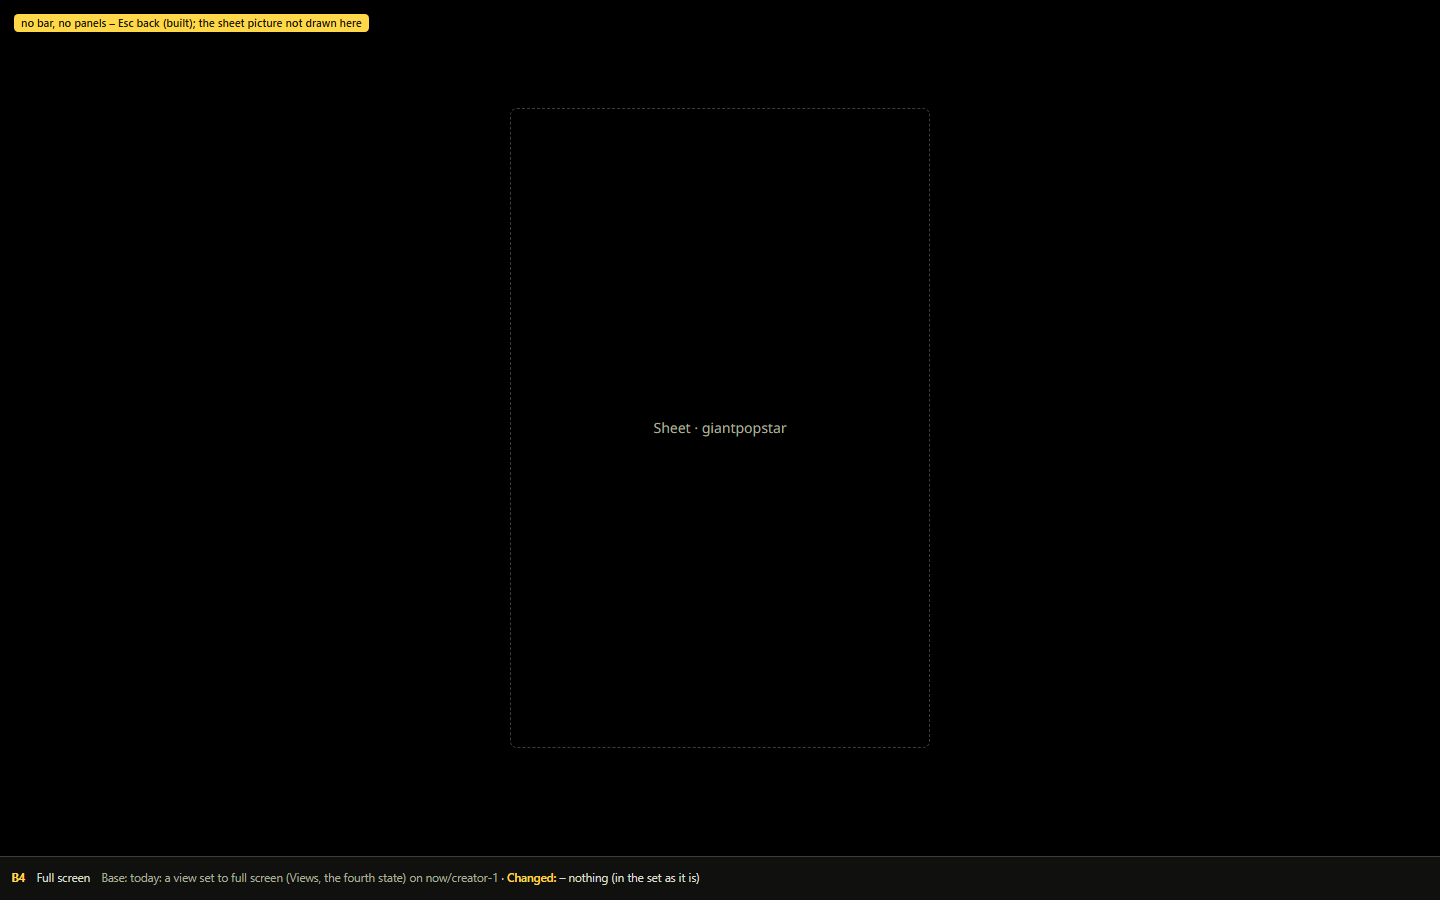
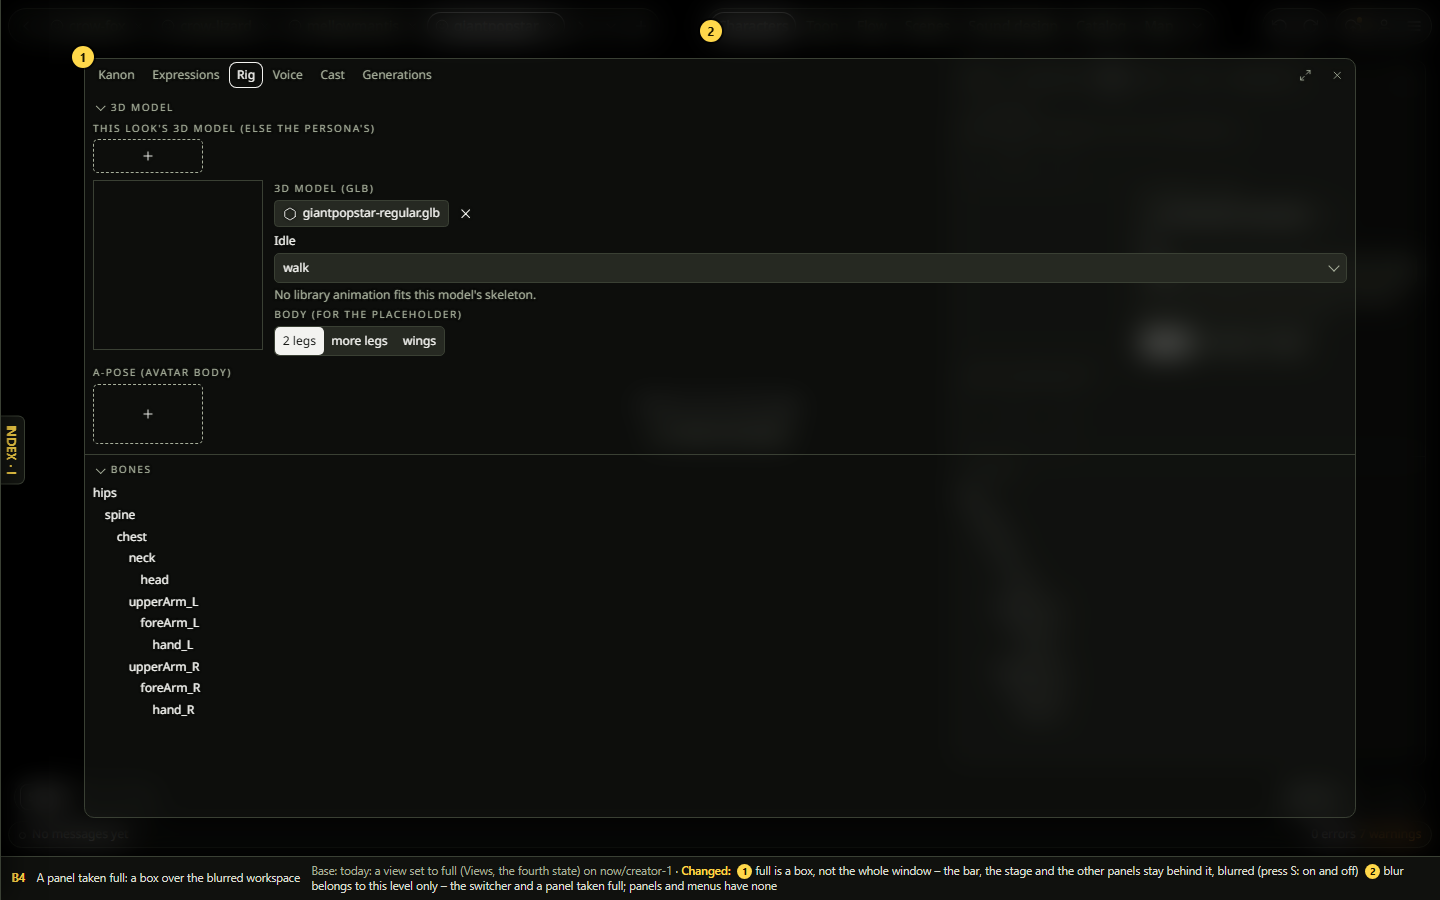
Lap 2 planning: depth layers (RULES H15) – the switcher and a panel taken full lie over the blurred bar, stage and panels, blur on that level only; A3, A3b, B4, B7, D1 redrawn; Spores points 1 and 3 answered. Refs #626

diff --git a/agents/research/redesign/lap2/draft-screens.js b/agents/research/redesign/lap2/draft-screens.js
@@ -67,9 +67,10 @@ const SW_LAST = [['smile','Riesen-Popstar','Characters · now'],['map','Map','Ma
 
 add('A', 'A3', 'The switcher (Alt Tab / Ctrl K / ⌘K)', 'now/creator-2 (dashboard)',
   ['no search field (A4)', 'Alt Tab / Ctrl K / ⌘K, not ☰', 'no Views row on the cards (Views: ☰ only)',
-   "one list: the deck's workspaces too, badged; Enter opens the deck there (A3b)"],
+   "one list: the deck's workspaces too, badged; Enter opens the deck there (A3b)",
+   'the bar, the stage and the panels are blurred behind – the switcher has no bar (press S: on and off)'],
   () => `${characters({ bar: { chevron: true } })}${dashboard({ noSearch: true, cols: 6, cards: SW_CREATOR() })}
-  ${mk(1, 20, 62)}${mk(2, 1405, 30)}${mk(3, 200, 412)}${ring(486, 467, 706, 160)}${mk(4, 478, 458)}
+  ${mk(1, 20, 62)}${mk(2, 1405, 30)}${mk(5, 700, 22)}${mk(3, 200, 412)}${ring(486, 467, 706, 160)}${mk(4, 478, 458)}
   ${capn(14, 636, 'cards: real captures (production 2026-11-24, the deck from now/deck-*); XR has none yet')}
   ${qcard(14, 664, "the foot", ['stays as today', 'goes – the ☰ menu holds it (A2)'], '', '17rem')}`);
 
@@ -148,9 +149,12 @@ add('B', 'B3', 'The four stage layouts + drop zones', "stage-zones.svelte + layo
     ${cstatus()}${capn(560, 838, 'built (lap 1) – in the set as it is')}`;
   });
 
-add('B', 'B4', 'Full screen', 'today: a view set to full screen (Views, the fourth state) on now/creator-1', [],
-  () => `<div class="abs" style="inset:0;display:grid;place-items:center" class="muted"><div style="width:420px;height:640px;border:1px dashed var(--tool-line);border-radius:.5rem;display:grid;place-items:center;color:var(--tool-muted)">Sheet · giantpopstar</div></div>
-  ${capn(14, 14, 'no bar, no panels – Esc back (built); the sheet picture not drawn here')}`);
+add('B', 'B4', 'A panel taken full: a box over the blurred workspace', 'today: a view set to full (Views, the fourth state) on now/creator-1',
+  ['full is a box, not the whole window – the bar, the stage and the other panels stay behind it, blurred (press S: on and off)',
+   'blur belongs to this level only – the switcher and a panel taken full; panels and menus have none'],
+  () => `${characters({ bar: { chevron: true } })}
+  <div class="dash over">${fp(84, 58, 1272, 760, RIG_TABS, RIG_BODY, { icons: `<span class="ic" title="Back to its place (Esc)">${ic('expand')}</span>` })}</div>
+  ${mk(1, 72, 46)}${mk(2, 700, 20)}`);
 
 add('B', 'B5', 'The Info view', "the creator's Info (info-panel.svelte, built fa70cce3f) · deck Info (panels.rs)",
   ['hover text only: the Info view shows the name and description of what is under the pointer, nothing in the panels (H14)'],
@@ -276,17 +280,15 @@ add('C', 'C15', 'XR (creator-only)', "epic-drafts `?s=714` (scenes session, 6c8e
 
 /* ════════ D · the deck editor's workspaces (now/deck-*, main r4781, night) ════════ */
 const DKNOTE = "the panels as on main – the deck is the kit's source (H12), no kit change";
-add('D', 'D1', 'Home + the switcher', 'now/deck-3-home · A3 (the same design)',
-  ['the shared bar (A1): Scene · Rigging · Show', 'the switcher as in A3, no Views on cards',
-   "one list: the creator's workspaces too, badged Creator"],
-  () => `${deckShot('deck-3-home.png', '')}
+add('D', 'D1', 'The switcher over a workspace (Home stays when nothing is open)', 'now/deck-1-bar-stage · A3 (the same design)',
+  ['the bar, the stage and the panels are blurred behind – the switcher has no bar (press S: on and off)', 'the switcher as in A3, no Views on cards',
+   "one list: the creator's workspaces too, badged Creator – the same order in both apps"],
+  () => `${deckShot('deck-1-bar-stage.png', '')}
   ${dashboard({ noSearch: true, cols: 6, focus: 0, review: false, cards: SW_DECK(),
     last: [['box','scene:avatar-home','Scene · now'],['user','catpope','Rigging · 20 min'],['list','new-show','Show · 1 h']] })}
-  <div class="abs" style="left:0;top:0;width:1600px;height:50px;transform:scale(.9);transform-origin:0 0;z-index:50" data-theme="night">${deckBarNew({ tabs: [], mode: false, wsNames: ['Scene','Rigging','Show'], wsOn: -1 })}</div>
+  <div class="abs" style="left:0;top:0;width:1600px;height:50px;transform:scale(.9);transform-origin:0 0;z-index:50" data-theme="night">${deckBarNew({ tabs: [], mode: false, wsNames: ['Scene','Rigging','Show'], wsOn: 0 })}</div>
   ${mk(1, 560, 30)}${mk(2, 20, 62)}${mk(3, 722, 298)}
-  ${qcard(1010, 120, "Needs review (deck)", ['the box as in the creator', 'left out (dashed)'], '', '18rem')}
-  ${qcard(14, 664, "Home or the switcher", ['Home when nothing is open, the switcher on the keys', 'the switcher replaces Home'], '', '22rem')}
-  ${qcard(350, 664, "List order", ["the app's own workspaces first (drawn)", 'the same order in both apps'], '', '17rem')}`);
+  ${qcard(1010, 120, "Needs review (deck)", ['the box as in the creator', 'left out (dashed)'], '', '18rem')}`);
 add('D', 'D2', 'Build: Rig · Library · Inspector · Audio · Info · Mixer · Camera tools · Tools', 'now/deck-3-stage-workspace (catpope open in Build)',
   ['the shared bar (A1)', 'Views: the ☰ menu\'s PANELS become Views (A2 / B1)', DKNOTE],
   () => `${deckShot('deck-3-stage-workspace.png', deckBarNew({ wsNames: ['?','?','?'] }))}${mk(1, 230, 38)}${mk(2, 1318, 38)}${capn(980, 52, 'Views in the ☰ menu (A2) or the tab\'s menu (B1)')}${mk(3, 20, 330)}`);

diff --git a/agents/research/redesign/lap2/draft.html b/agents/research/redesign/lap2/draft.html
@@ -110,6 +110,9 @@ svg.i{width:1rem;height:1rem;stroke:currentColor;fill:none;stroke-width:1.6;stro
 
 /* dashboard (today's switcher) */
 .dash{position:absolute;z-index:45;inset:0;background:color-mix(in srgb,var(--tool-ground) 82%,transparent);backdrop-filter:blur(3px)}
+/* the switcher lies over everything – the bar, the stage and the panels are blurred behind it, no bar of its own (owner 2026-11-24); S toggles it in this draft */
+.dash.over{z-index:55;background:color-mix(in srgb,var(--editor-stage) 46%,transparent);backdrop-filter:blur(14px);-webkit-backdrop-filter:blur(14px);transition:opacity .25s}
+.dash.over.off{opacity:0;pointer-events:none}
 .dcard{position:absolute;border:1px solid var(--tool-line);border-radius:var(--kit-radius-box);background:var(--tool-popover);padding:.5rem .6rem}
 .dcard.focus{box-shadow:0 0 0 2px var(--tool-accent)}
 .dcard .nm{position:absolute;left:.6rem;bottom:1.9rem}
@@ -270,7 +273,7 @@ function dashboard(o = {}) {
   };
   const search = o.noSearch ? '' : `<div class="abs fld" style="left:14px;right:14px;top:56px;height:2.1rem;border-radius:1.05rem;color:var(--tool-muted);background:var(--tool-popover)">${ic('search')}Find</div>`;
   const by = o.by ?? 99;
-  return `<div class="dash">${search}
+  return `<div class="dash ${o.over === false ? '' : 'over'}">${search}
   <div class="abs box" style="left:14px;width:700px;top:${by}px;height:165px;background:var(--tool-popover)"><div class="label" style="margin-bottom:.6rem">Last opened</div>
     ${(o.last || [['smile','Riesen-Popstar','Characters · now'],['map','Map','Map · 12 min'],['book','Sandbox','Toon · 8 h']]).map(([i, n, m]) => `<div class="lrow" style="min-height:1.85rem">${ic(i)}${n}<span class="m">${m}</span></div>`).join('')}</div>
   ${o.review === false ? `<div class="abs box" style="left:726px;right:14px;top:${by}px;height:165px;border-style:dashed;display:grid;place-items:center"><span class="label">Needs review · ?</span></div>` : ''}<div class="abs box" style="${o.review === false ? 'display:none;' : ''}left:726px;right:14px;top:${by}px;height:165px;background:var(--tool-popover)"><div class="label" style="display:flex;margin-bottom:.6rem">Needs review<span style="margin-left:auto">Not published · <span style="color:var(--tool-warn)">8</span></span></div>
@@ -364,6 +367,7 @@ document.addEventListener('keydown', e => {
   if (e.key === 'ArrowLeft' || e.key === '‹' || e.key === ',') go(i - 1);
   if (e.key === 't' || e.key === 'T') location.search = `?s=${window.__cur.id}${DAY ? '' : '&theme=day'}`;
   if (e.key === 'i' || e.key === 'I') document.getElementById('idx').classList.toggle('open');
+  if (e.key === 's' || e.key === 'S') document.querySelectorAll('.dash.over').forEach(d => d.classList.toggle('off'));
 });
 render();
 </script>

diff --git a/agents/decisions/law.md b/agents/decisions/law.md
@@ -4,6 +4,7 @@ The owner's words, one line each, newest first, append-only (how: agents/DECISIO
 Keys here: `[editor-style]` 33 the tools take the deck / OSCT editor style; the creator is desktop-only · `[vertex]` 1 OpenCode sessions use the `vienna-struggle` service account by the kind ladder · `[deck-rules-in-deck]` 3 deck rules live in the deck, the server keeps configuration · `[mcp-byo-ai]` 6 AI = the member's own Claude via MCP · `[worktree-requests]` 6 worktrees and branches: when, and the owner merges · `[docs]` 4 the docs structure and caps · `[language-neutral]` 3 everything language-independent · `[scenes-from-api]` 3 scenes are API content (entities), not TOML · `[audit]` 2 the bridge audit is standing and reruns often · `[browser-is-ui]` 2 the browser is UI, no business logic · `[designer-in-creator]` 2 the designer is in the creator; performance vs edit mode · `[dev-ports]` 2 fixed ports, one start routine · `[issues-only]` 2 all open work is GitHub issues · `[kanon]` 2 the Kanon (story texts) · `[mariadb]` 2 MariaDB only; production is the source · `[names]` 2 deck / stage environment / no master-slave wording · `[night-runs]` 2 unattended runs: merge to main, never push · `[no-cloud]` 2 no cloud sessions; workers local in worktrees · `[perf-first]` 2 performance and stability first · `[rigs-in-core]` 2 rigs and modules are Rust in the core · `[ai-license]` 1 AI models without the big companies' license limits · `[api-content]` 1 content from the API, JSON only as import / export · `[audiovisual]` 1 everything is audiovisual · `[board]` 1 the six board statuses · `[board-move]` 1 move issues along the board · `[bold]` 1 bold very rarely · `[branch-names]` 1 <kind>/<issue>-<title> · `[carrier-bag]` 1 "carrier bag" replaces inventory · `[codes]` 1 codes are case-sensitive · `[config-small]` 1 keep the configuration small · `[confirm]` 1 in-page confirmations · `[control-height]` 1 one control height · `[core-only]` 2 check:core-only ratchet · `[deck-ci-local]` 2 deck CI runs locally; stamps and the full tier · `[devices-via-core]` 1 camera / MIDI / sensors reach the core through adapters · `[done-green]` 1 done = green checks · `[drafts-first]` 1 bigger UI is drafted first · `[empty-states]` 1 empty states · `[fold]` 1 quiet fold buttons · `[law-book]` 1 this refactor · `[local-media]` 1 local media is a dev copy · `[mcp-draft-ok]` 1 save_draft always allowed · `[mcp-drafts]` 1 the AI saves drafts, the member confirms · `[mcp-restart]` 1 agents restart their own MCP · `[media-quality]` 1 media quality is a reader setting · `[migrations]` 1 the owner never runs migrations; format changes · `[models]` 1 model per task · `[module-restart]` 1 a new module is taken only by restart · `[music]` 1 every character makes music; how SCUTOONS began · `[no-backcompat-engine]` 1 no backwards compatibility for the audio engine · `[no-duplicate]` 1 no second copy of core logic · `[one-core]` 1 the one universal Rust core; platforms are target + adapters · `[one-engine]` 1 one audio engine, native ≡ wasm · `[own-video]` 1 own video playback, no browser API · `[packs]` 1 items / recipes are data packs · `[public-repo]` 1 repo public, Actions minutes free · `[readers-save-nothing]` 1 readers save nothing; no submit flow · `[rem]` 1 sizes in rem · `[round-square]` 1 round vs square controls · `[rust-engine]` 1 as much as possible in the Rust engine · `[rust-first]` 1 Rust first for everything native · `[slice-624]` 1 slice 390 × 624 · `[tempo-core]` 1 the tempo clock lives in the core · `[test-user]` 1 agents debug as the test user · `[ts-module-host]` 1 the TS module host is deleted · `[ts-tests]` 2 TypeScript + unit tests · `[urls]` 1 printed URLs never change · `[usage]` 1 usage reporting · `[ui-kit]` 8 one component library for shared 2D UI
 
 ## 2026-11
+- 2026-11-24 · ui · [editor-style] **Decided: depth layers. The switcher ("workspace switcher or just switcher from now on") shows no top bar – the bar is blurred in the background like the rest of the workspace, the stage and the panels. The same for a panel taken full, which is a box and not a real full screen: it shows its context by blurring the background. Blur is used on this level of overlay only; other panels do not need it.** Owner: *"We do not want to see the top bar, it is blurred out in the background, just like the rest of the underlying workspace and stage and panels."* · *"Same blurred concept goes for take fullscreen for a panel, which is not a real fullscreen but a boxed one. So it has to show context by blurring out the background."* · *"And we only use blur in this level of overlay, rule. Other panels don't need it."* · *"So we create some depth layers for our UI dogma."* The four layers' names (stage · surfaces · popovers · overlay) are the agent's wording, to confirm. · → RULES H15, research/redesign/lap2/draft.html `?s=A3`, `?s=D1`, `?s=B4`
 - 2026-11-24 · ui · [editor-style] **Decided: signals keep their colour coding – the only thing that does under palette D. Ports, pins and cables are drawn in their signal's colour and shape from the one signal table (deck-kit `base/signal.rs`); what OSCT has and the table lacks is adopted.** Answering "signals by shape only?" (SPORES-VIEW.md point 4), and so replacing the kit's point 14 (cables in the text colour). Owner: *"No. Signals have colour coding. This is the only thing that keeps their colour coding. We have a concept in place and can adopt if some [are] missing from OSCT."* · → RULES H11, research/redesign/lap2/SPORES-VIEW.md, NETWORK.md §3
 - 2026-11-24 · ui · [editor-style] **Decided: the kit in palette D is approved as drawn (research/redesign/lap2/kit-d.html, its 14 points; the tab's hover / drag border in the text colour) – with two conditions: no grey through the back door, and a colour-blind token set.** Owner: *"I agree on kit-d. That looks awesome. Except there are some transparencies that I don't like since we are secretly introducing grey a lot again instead of transparency – can we please rework that. Also for the colour tokens add the colour-blind version. Blue and yellow or orange are the colours there respectively."* Grounds are see-through (the text colour at a low alpha), a state is never a grey fill; ok / warning / error get a second, colour-blind set (blue / yellow / orange, Okabe–Ito) with a mark beside each colour, a mode in Settings.
 - 2026-11-24 · ui · [editor-style] **Decided: palette D – no signal colour (RULES H11).** Owner, on the kit review sheet (research/redesign/lap2/kit.html: A today · B lime only · C blue only · D no signal hue), after *"the colour palette has not been normalized – we are still using blue and green. Perhaps we finally decide"*: *"D, no signal colour"*. On, focus, active and selected are the text colour (white by night, ink by day); the primary action is the pressed fill; colour remains only for ok, warning and error. Today "on" is drawn three ways (blue chip / tile / tick, green toggle, ink tab / row) and the accent is painted in 201 places, lime in 36, go-green in 23 – all move in lap 2, in the web kit, the creator and deck-kit's tokens.

diff --git a/agents/RULES.md b/agents/RULES.md
@@ -102,6 +102,7 @@ Old section names in code comments (until 2026-11-03): "Backlog" = C · "Git, se
 - **H12** One UI kit with recurring components, and the deck editor is its source of truth: every button, icon button, pill, pill tabs, menu, toggle, field, panel head and list row of the web tools is a `shared/ui` component that mirrors deck-kit's (`deck/kit/src/editor/controls.rs` and siblings) – its sizes, radii, insets and alignment, including deck-kit's concentric rule (a pill inside a pill is rounded by the outer radius less the inset, so the corners share a centre). No page or app draws its own copy; a shape the deck doesn't have is asked first. The style check fails on local button/pill/tab styling outside the kit. (2026-11-24 [editor-style])
 - **H13** Design pictures (drafts in `research/redesign/` and every mock-up shown to the owner) are drawn with the kit's own tokens and components – `shared/tokens` and the `shared/ui` editor kit (H11, H12): round pills, the kit's badges, the stage and panel grounds – never an older style; a draft that needs a shape the kit lacks marks it as new. Badges (the kit's Chip) are small and delicate: round, the accent as line and words on a faint accent ground, never a solid blue fill. (2026-11-24 [editor-style])
 - **H14** No info in the UI unless the member asks for it: no hint lines, legends, explanations or info buttons in panels – the UI is meant to be intuitive, and pros don't need it. What a control or a type means is its hover text (`title`), and the Info view (the creator's `info` view, deck-kit `info.rs`, from the OSCT editor; in no preset, opened through Views) shows the name and description of what is under the pointer – the member's choice. Panels show values, states and errors; rarely used filters shrink to icons whose hover says the rest. (2026-11-24 [editor-style])
+- **H15** Depth layers. The tools have four depths, each with one ground: **the stage** (the content; black by night, white by day) · **surfaces** (the bar, the floating panels, the status line: the see-through panel ground, sharp) · **popovers** (menus, pickers, hover text: opaque, sharp) · **the overlay** (the switcher, and a panel taken full – a box, never the whole window). Under the overlay everything is blurred, the bar included, so the place stays readable as context and nothing of it competes. Blur exists on the overlay level only: no panel, menu or popover blurs what lies behind it. The workspace switcher is called "the switcher". (2026-11-24 [editor-style])
 
 ## I · Product
 - **I1** Printed / public URLs never change (QR `?c=`, `/verify.html`, `/<toon>`, `/<toon>/chapter/<n>`, `?code=`, locale prefixes); new may be added; a change only by server-side mapping + tests + rollback (PLATFORM "Printed URLs"). Codes are case-sensitive. (2026-09-30 [urls], 2026-10-03 [codes])

diff --git a/agents/research/redesign/lap2/SPORES-VIEW.md b/agents/research/redesign/lap2/SPORES-VIEW.md
@@ -63,9 +63,9 @@
 The look: palette D, see-through grounds, ports and cables in their signal's colour and shape (the deck's signal table: event triangle, scene square, value dot, address diamond, far ring) – the one exception to "no colour" (owner 2026-11-24, replacing kit point 14).
 
 ## Open – each needs the owner's word
-1. **One event, many listeners?** Today an event fires one row; a second row picking it is refused. In a universe-wide network several listeners are the normal case. Recommended: allow it; the picker's line says who else listens.
+1. **Answered 2026-11-24: yes – several listeners can hang on one event.** Asked as: **One event, many listeners?** Today an event fires one row; a second row picking it is refused. In a universe-wide network several listeners are the normal case. Recommended: allow it; the picker's line says who else listens.
 2. ~~May a row fire on several events?~~ **Answered 2026-11-24: yes, several – any of them wakes the row.** Today one (`fire.event`).
-3. **Which sources can fire a row in lap 2?** **Answered 2026-11-24: the ones not built stay greyed in the picker, as a marker that they get a plan of their own after this iteration.** (The agent reads the rest as recommended, to confirm.) Recommended: story as today, another row, a vote's result; the rest drawn greyed as "later" so the picker's shape already holds them.
+3. **Which sources can fire a row in lap 2?** **Answered 2026-11-24: the ones not built stay greyed in the picker, as a marker that they get a plan of their own after this iteration.** Confirmed 2026-11-24: besides story events, **a row's fire and a vote's result count as sources** in this lap. Recommended: story as today, another row, a vote's result; the rest drawn greyed as "later" so the picker's shape already holds them.
 4. ~~Signals by shape only?~~ **Answered 2026-11-24: no – signals keep their colours, the one exception under palette D (RULES H11); the deck's signal table is the concept, OSCT's missing kinds are adopted.** The pictures are redrawn with the table's colours. Asked as: NETWORK.md gave each signal a colour (2026-11-17's grammar); palette D and kit point 14 put cables in the text colour. Recommended: shape only, a cable lights when its event fires.
 5. **Answered 2026-11-24: not in this lap – with #764.** *"This is a design and UX round. That other thing is fundamental refactoring."* Asked as: **The creator's Generate stub** (Svelte cards): replaced by the deck's canvas through wasm – in lap 2, or with #764 (the creator inside the deck's wasm)?
 6. **Answered 2026-11-24: yes, "Spores" is decided.** Asked as: **The deck's "Nodes" tab** becomes "Spores" (the name decided 2026-11-21) – applied with this lap?

diff --git a/agents/decisions/creator.md b/agents/decisions/creator.md
@@ -4,6 +4,7 @@ The owner's words, one line each, newest first, append-only (how: agents/DECISIO
 Keys here: `[creator]` 85 the creator app · `[text-boxes]` 9 text boxes · `[timeline]` 3 the timeline
 
 ## 2026-11
+- 2026-11-24 · creator deck · [creator] **Spores view, points 1 and 3: several listeners can hang on one event; in lap 2 a row can be fired by a story event, by another row's fire and by a vote's result – the other sources stay greyed.** Owner: *"Point 1: whether several listeners can hang on one event – yes. 3: row fire and vote result count as sources."* All seven points of SPORES-VIEW.md are answered. · → research/redesign/lap2/SPORES-VIEW.md
 - 2026-11-24 · creator deck · [creator] **Spores view, points 5–7: the creator's Generate stub gives way to the deck's canvas with #764, not in lap 2 – lap 2 is a design and UX round, #764 is fundamental refactoring. The deck's "Nodes" tab is named "Spores". When a reader's phone fires an event (a found target), any reader's counts; a filter that allows some automatically can come later.** Owner: *"5. Yes, not in this lap. This is a design and UX round. That other thing is fundamental refactoring. 6. Yes, Spores is decided. 7. Any readers. Eventually we can add a filter to auto-allow."* · → research/redesign/lap2/SPORES-VIEW.md, #764
 - 2026-11-24 · creator deck · [creator] **A row may fire on several events (any of them wakes it). The sources that cannot fire a row yet (place, device, jobs and assets) stay in the picker, greyed – a visible marker that they need a plan of their own after this iteration.** Answering SPORES-VIEW.md points 2 and 3. Owner: *"2. Several is possible. 3. Stay grey, so we know we have to build a plan for it after this iteration."* The agent's reading of 3: the lap takes story events as today, another row and a vote's result, as recommended – to confirm. · → research/redesign/lap2/SPORES-VIEW.md
 - 2026-11-24 · creator deck · [creator] **The Spores demo is how triggering works: a thing that listens has one ⚡ inlet, the event is picked there (Find, widened from the toon to the show to the universe) or woven as a cable in the Spores view, and an event from any scope – a found XR target, a generation triggered or finished – travels hop by hop to its listeners.** Shown as two chains (spores-demo.html: target found → relay → row → decks; sheet changed → generator runs → succeeded → the slot and a row). Owner: *"Yes, like this"*. Not settled by this: the seven open points of SPORES-VIEW.md (several listeners per event, which sources fire a row this lap, whose event counts …). · → research/redesign/lap2/SPORES-VIEW.md, #763
